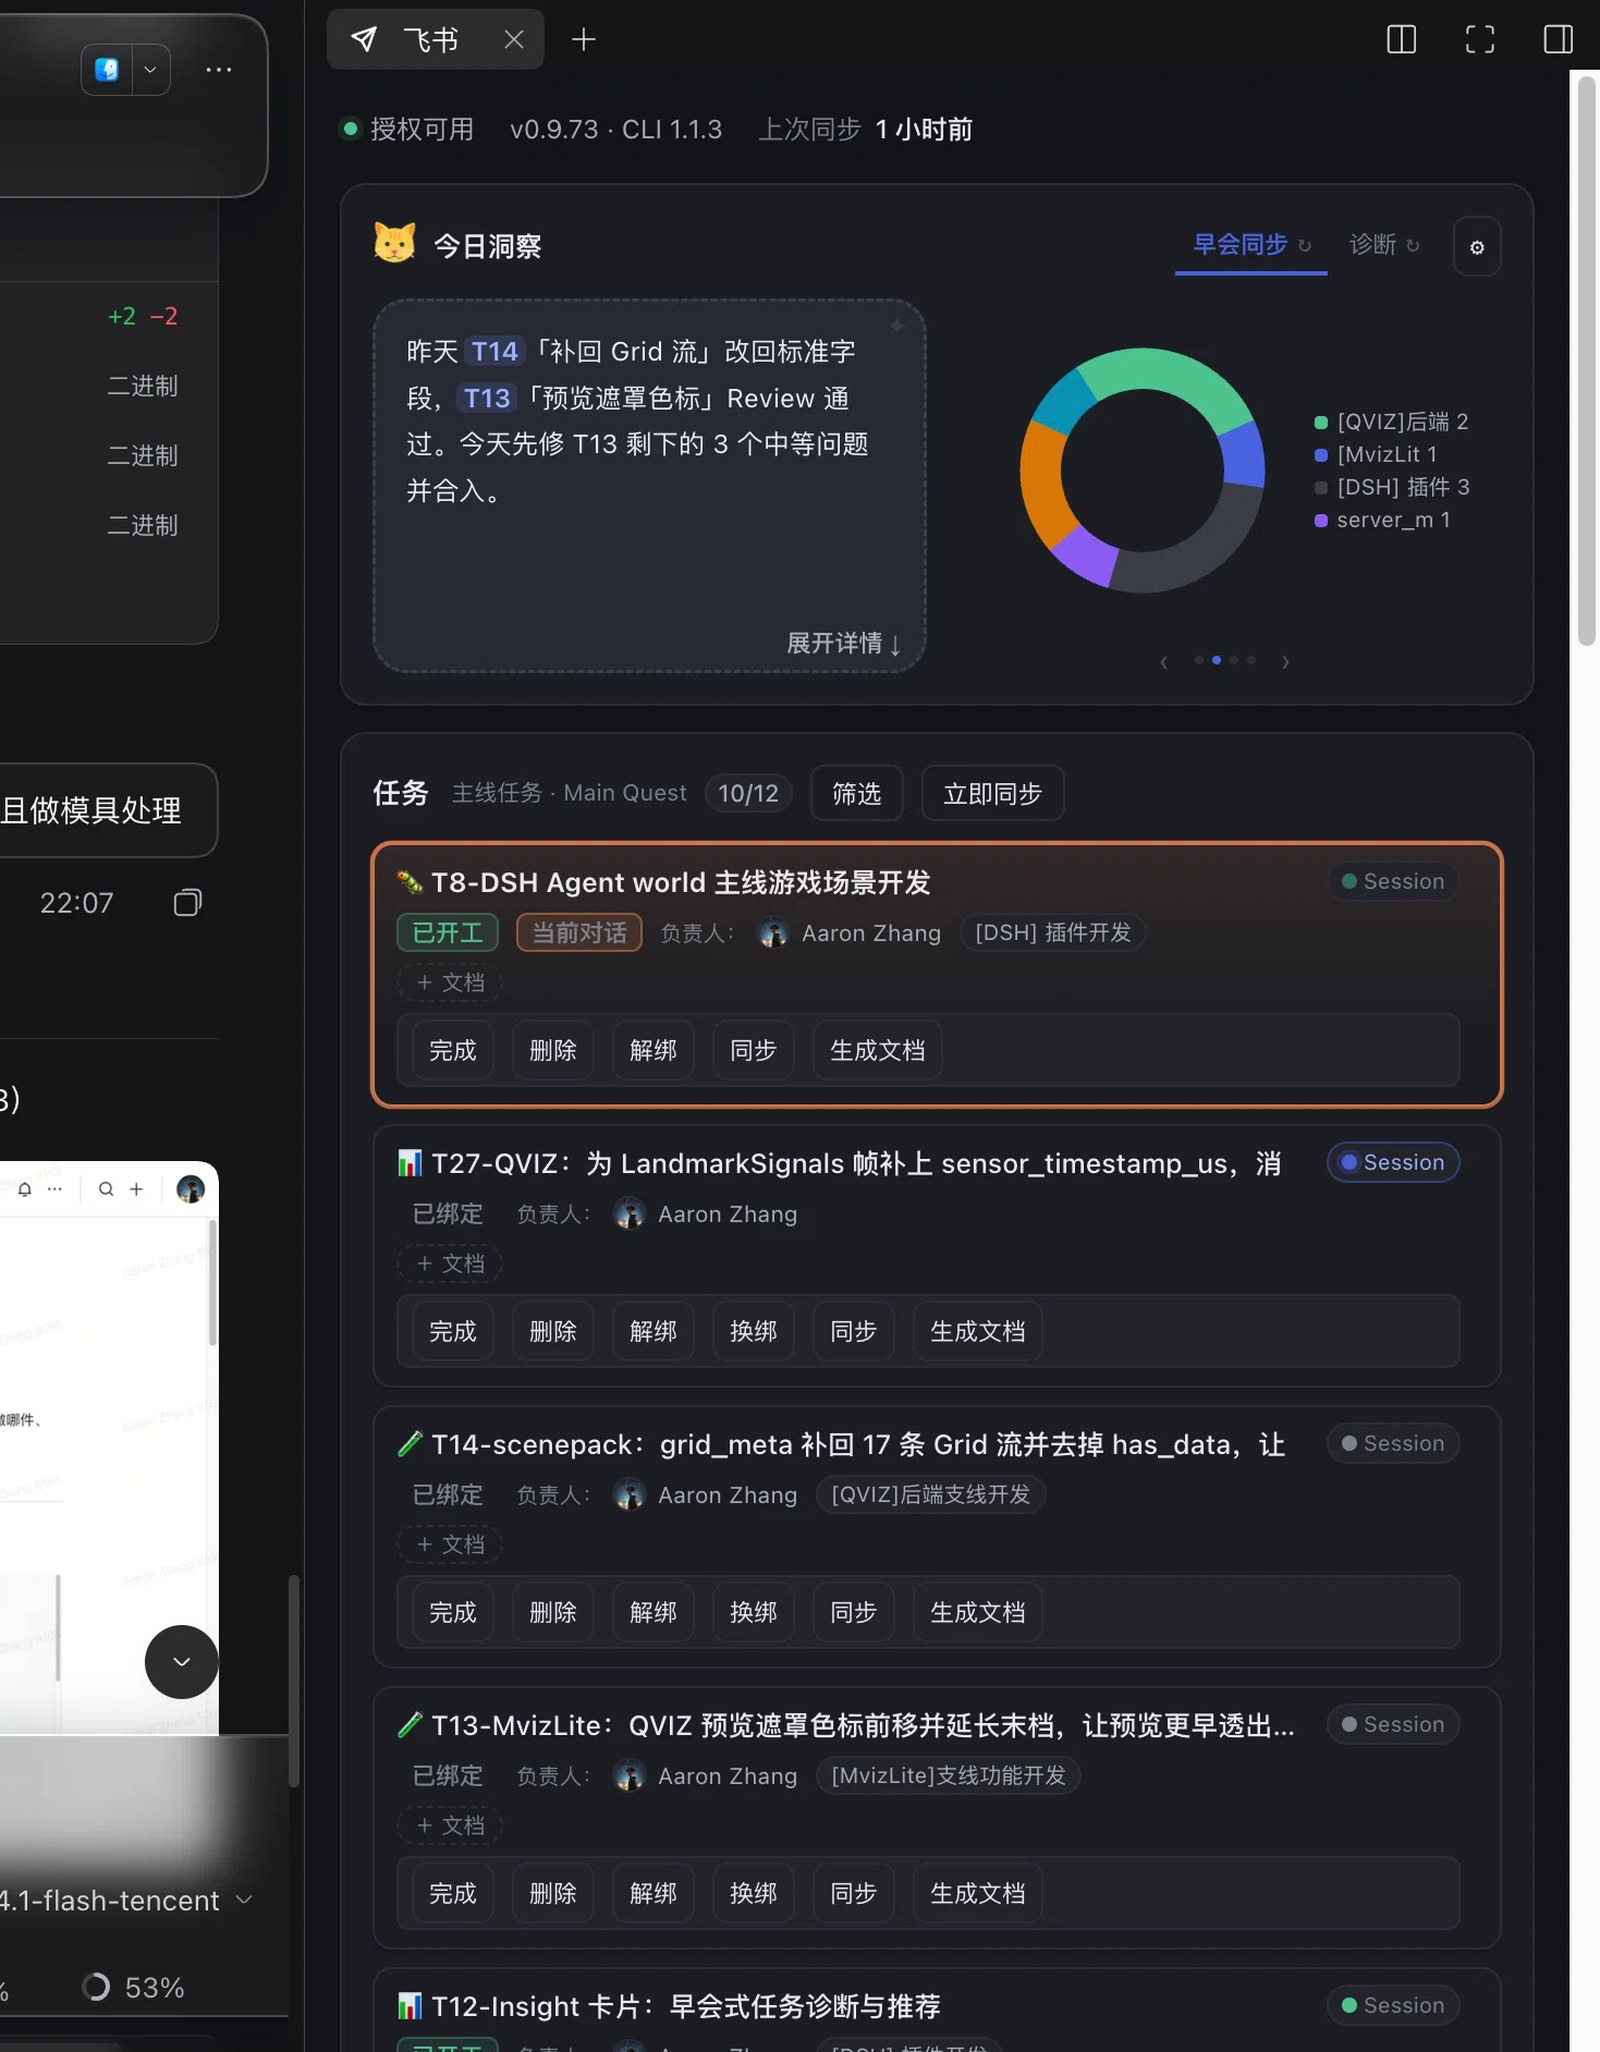
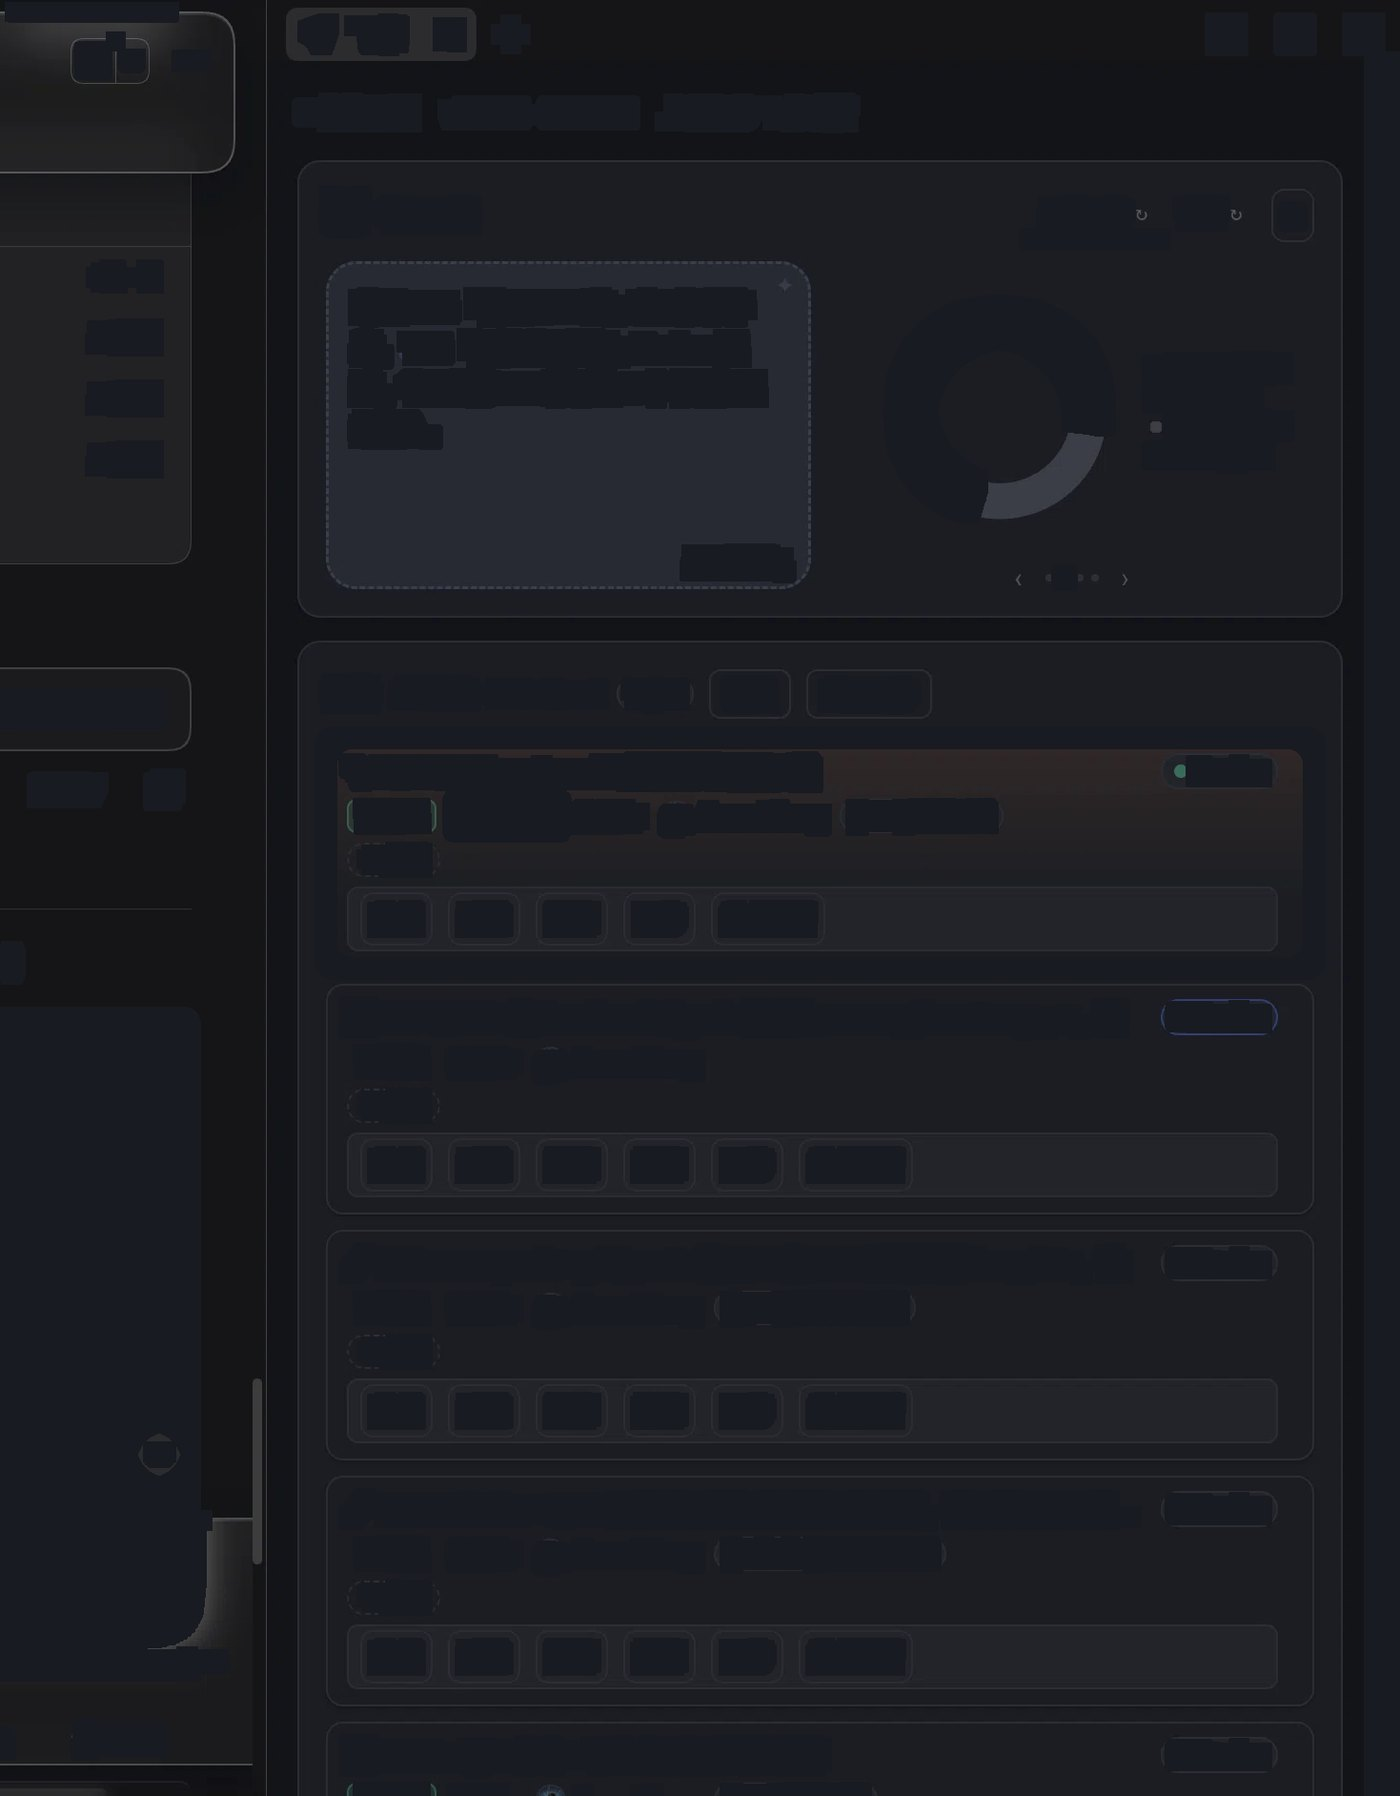
dsh-feishu 0.9.75：截图真正脱敏（文字全部打成色块）
上一版只是高斯模糊，字形轮廓还能认（「早会同步」「Review」依稀可读），
而且我手猜的模糊区域没盖住图例和人名列。

改成确定性的打码：亮度阈值取文字像素 → 双重膨胀 → 用背景色纯色填充。
结果：所有中英文、数字、项目代号、人名、会话 id 都变成色块，
图表也被一并盖住，只剩布局和控件位置。

飞书：https://momenta.feishu.cn/docx/ZfK6d7BgKorJ72xNiYBcZUyznJb

diff --git a/packages/dsh-feishu/docs/USER-GUIDE.md b/packages/dsh-feishu/docs/USER-GUIDE.md
@@ -2,7 +2,7 @@
 
 把飞书任务清单搬进 DSH：每条任务一张卡，绑定一条对话；每天开工前先看一眼「今日洞察」，知道先做哪件、不碰什么。
 
-> 截图取自真实使用环境，含内部项目代号，请勿外发。
+> 截图已脱敏：所有文字与图表数值都打成色块，只看布局与控件位置。
 
 ---
 

diff --git a/packages/dsh-feishu/README.md b/packages/dsh-feishu/README.md
@@ -39,7 +39,7 @@
 
 ![任务看板](docs/shots/14-task-board.jpg)
 
-> 截图取自真实使用环境，含内部项目代号，请勿外发。
+> 截图已脱敏：文字全部打码成色块，只保留布局；图表比例也一并盖住。
 
 完整的用法说明见 [docs/USER-GUIDE.md](docs/USER-GUIDE.md)。
 
